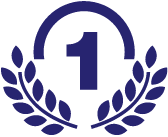
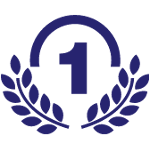
increase responsiveness

diff --git a/style.css b/style.css
@@ -164,8 +164,21 @@ Catalog color
         top: 3rem;
         left: 1.5rem;
     }
-    #short-desc { margin-top: 5.5rem; margin-right: 1.5rem; max-width: 20rem; }
+    #short-desc { 
+        margin-top: 5.5rem; 
+        margin-right: 1.5rem; 
+        max-width: 20rem; 
+    }
     #short-desc p.title { font-size: 2rem; }
+    #short-desc p.subtitle { font-size: 1rem; }
+}
+@media only screen and (max-width: 370px) {
+    #short-desc { 
+        margin-top: 6rem; 
+        margin-right: 0rem; 
+        max-width: 20rem; 
+    }
+    #short-desc p.title { font-size: 1.5rem; }
     #short-desc p.subtitle { font-size: 1rem; }
 }
 /********** BANNER **********/
@@ -183,8 +196,9 @@ Catalog color
 .section-anchor { 
     background-repeat: no-repeat;
     display: block;
-    height: 17rem;
-    width: 17rem;
+    height: 15rem;
+    width: 15rem;
+    margin: 0rem;
 }
 .navitem-expanded {
     height: 33rem;
@@ -258,10 +272,54 @@ Catalog color
 .about-blocks { 
     display: flex;
     flex-flow: row wrap;
-    margin-top: 7rem; 
+    margin: 7rem auto auto auto;
     width: 100%; 
 }
-.about-block { display: inline-block; flex: 1 50%; }
+.about-block { 
+    align-items: center;
+    display: inline-flex; 
+    justify-content: flex-start;
+}
+.about-icon {
+    background-repeat: no-repeat;
+    height: 15rem;
+    width: 15rem;
+    margin: 1rem;
+}
+#ab-1 {
+    background-image: url('/wp-content/themes/magnumific/pictures/Grafic/1.png');
+}
+#ab-2 {
+    background-image: url('/wp-content/themes/magnumific/pictures/Grafic/Depozit.png');
+}
+#ab-3 {
+    background-image: url('/wp-content/themes/magnumific/pictures/Grafic/Distributie.png');
+}
+#ab-4 {
+    background-image: url('/wp-content/themes/magnumific/pictures/Grafic/Sucursale.png');
+}
+#ab-5 {
+    background-image: url('/wp-content/themes/magnumific/pictures/Grafic/Grafic.png');
+}
+.about-block-text { 
+    align-self: center;
+    flex: 3 auto;
+    font-size: 1.2rem;
+    max-width: 40rem; 
+    padding-left: 2rem;
+}
+@media only screen and (max-width: 600px) {
+    .about-block-text {
+        max-width: 30rem;
+    }
+}
+@media only screen and (max-width: 500px) {
+    .about-block {
+        display: flex;
+        flex-flow: column wrap;
+        margin: auto;
+    }
+}
 .reason-blocks ul { list-style-type: none; }
 .reason-blocks ul li {
     height: 17.4rem;
@@ -286,30 +344,6 @@ Catalog color
 }
 .reason-blocks ul li:last-child .reason-block { text-align: center; width: 100%; }
 
-.about-icon {
-    background-repeat: no-repeat;
-    height: 17rem;
-    width: 17rem;
-}
-#ab-1 {
-    background-image: url('/wp-content/themes/magnumific/pictures/Grafic/1.png');
-}
-#ab-2 {
-    background-image: url('/wp-content/themes/magnumific/pictures/Grafic/Depozit.png');
-}
-#ab-3 {
-    background-image: url('/wp-content/themes/magnumific/pictures/Grafic/Distributie.png');
-}
-#ab-4 {
-    background-image: url('/wp-content/themes/magnumific/pictures/Grafic/Sucursale.png');
-}
-#ab-5 {
-    background-image: url('/wp-content/themes/magnumific/pictures/Grafic/Grafic.png');
-}
-.about-block-text { 
-    font-size: 1.2rem;
-    max-width: 20rem; 
-}
 #reason-list { margin-left: 5rem; margin-top: 5rem; }
 .reason-block { display: inline-block; margin: 2rem 0rem 0rem 2rem; }
 .reason-block:first-child { text-align: left; }
